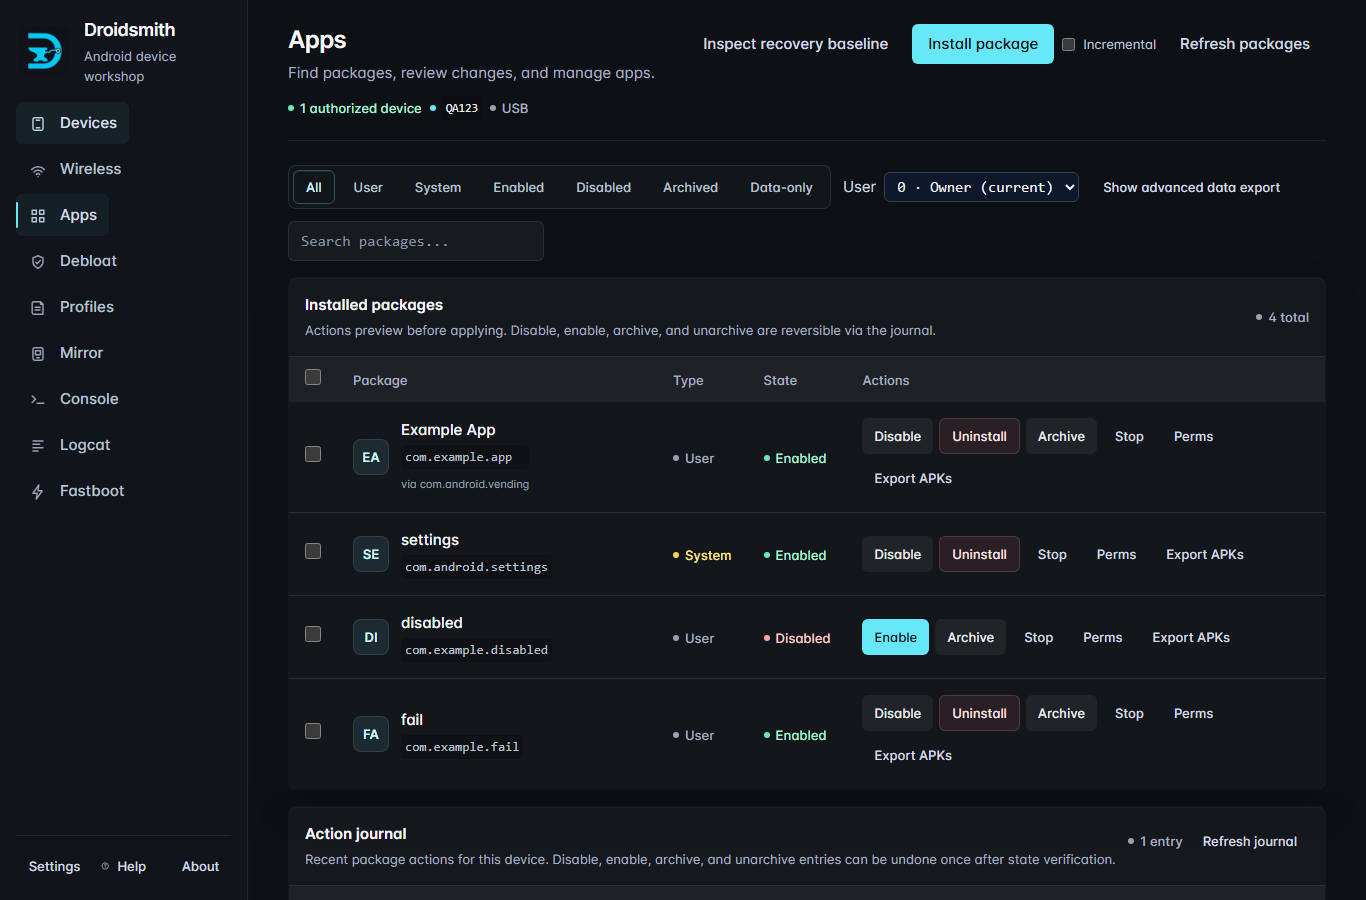
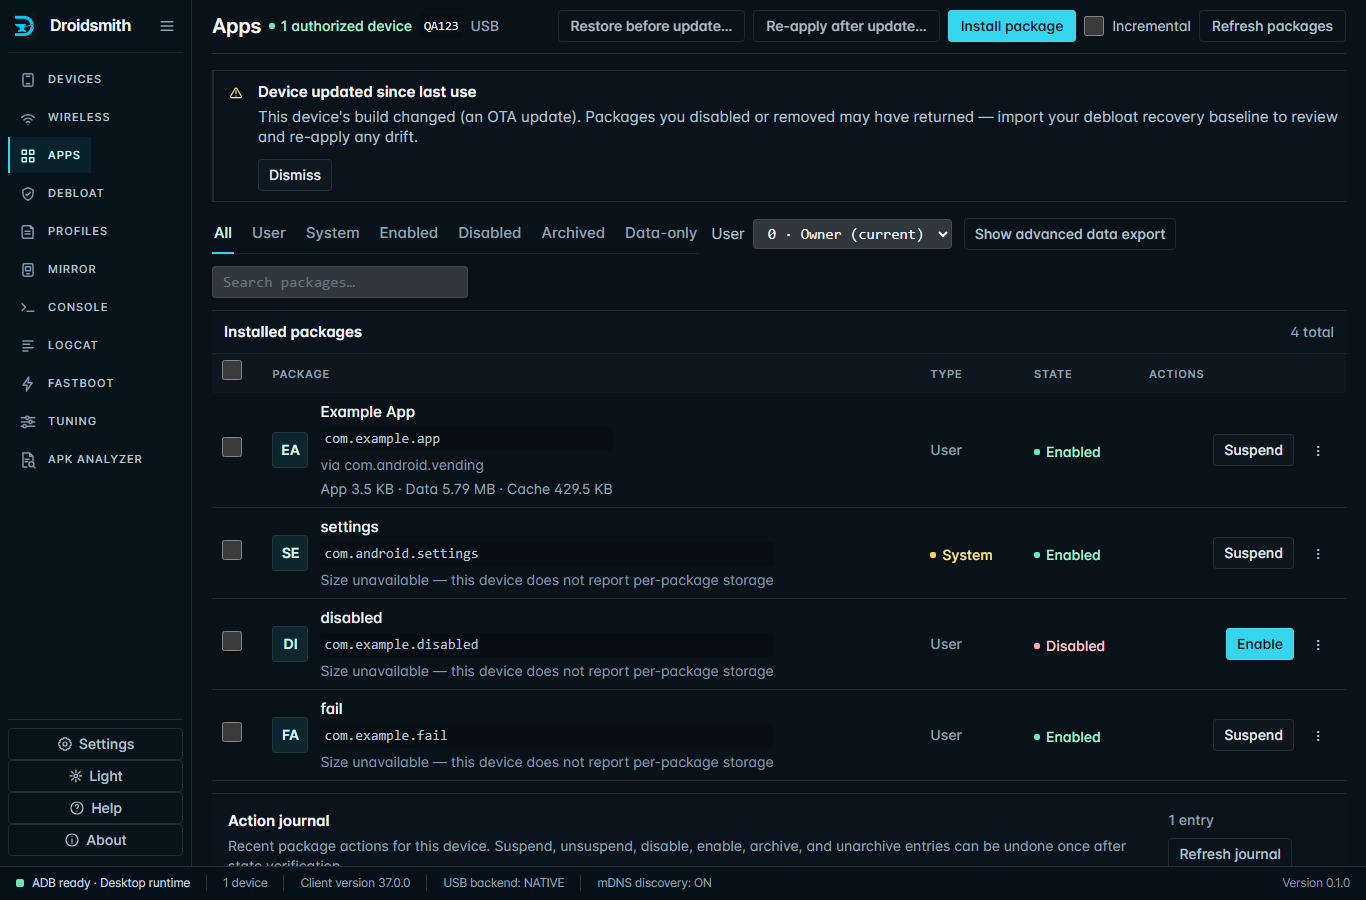
docs: align README contract and screenshots

diff --git a/ROADMAP.md b/ROADMAP.md
@@ -35,13 +35,6 @@ and Android, privacy-safe diagnostics, and the widest remaining product gap
   Acceptance: every component carries `licenses` sourced offline from `cargo metadata` and `package-lock.json`, with an explicit unknown marker where upstream declares none; the document carries `serialNumber`, `metadata.timestamp` and `metadata.tools`; a test fails if any component lacks a licence entry; the timestamp is derived from a reproducible input, not wall-clock, so `provenance:check` stays deterministic.
   Complexity: M
 
-- [ ] IMP-117 P1 — Close the README contract drift and regenerate the screenshots
-  Why: the README states a schema version the code does not accept, and its three screenshots predate a full visual-system replacement — both are user-facing claims no gate covers.
-  Evidence: `README.md:168` says profiles accept schema `"2"` while `src-tauri/src/profile.rs:16` is `"3"` and `README.md:199` says `"3"`; `scripts/check-release-policy.mjs:686` validates only the Platform-Tools sentence; `docs/screenshots/*.png` last regenerated 2026-07-17 (`git log`), before the 2026-08-02 v0.9.17 redesign; `npm run docs:screenshots` already exists.
-  Touches: `README.md`, `scripts/check-release-policy.mjs`, `docs/screenshots/`
-  Acceptance: the README profile-schema sentence is derived from `PROFILE_SCHEMA_VERSION` the same way the Platform-Tools line is derived from its policy, and the gate fails when they diverge; the three README screenshots are recaptured from the current visual system.
-  Complexity: S
-
 - [ ] R-137 P1 — Let a debloat pack choose its action
   Why: every pack entry is planned as `Disable`, so the reversible `suspend` rung shipped in v0.9.15 — the safest action the app has — is unreachable from the flagship content format, and so are uninstall-for-user and archive.
   Evidence: `src-tauri/src/commands/packs.rs:578` hardcodes `kind: actions::ActionKind::Disable`; `packs/schema.json` `PackEntry` carries a `removal` **risk tier** (Recommended/Advanced/Expert/Unsafe) but no action; UAD-NG issue #345 is the same request.

diff --git a/README.md b/README.md
@@ -166,7 +166,7 @@ ADB front end, but it has hard limits that an open project can fix:
 Bundled platform-tools and bundled scrcpy are not wired into the installer yet;
 install those tools on the host when their workflows are needed.
 The current extension surface is schema-only: this build accepts schema version
-`"1"` for packs and quirks and version `"2"` for profiles. Profile v1 has an
+`"1"` for packs and quirks and version `"3"` for profiles. Profile v1 has an
 explicit review-and-migrate path; future revisions are rejected with migration
 guidance. The plugin API and marketplace remain deferred.
 

diff --git a/CHANGELOG.md b/CHANGELOG.md
@@ -49,6 +49,10 @@ each milestone tag.
 - **The Rust MSRV rationale matches the actual toolchain contract.** The
   1.90 floor is documented as an intentional native-toolchain requirement and
   remains pinned by `rust-toolchain.toml`. (IMP-123)
+- **README schema copy and screenshots match the current build.** The profile
+  contract now states schema 3, the release gate checks that prose against the
+  contribution schema policy, and all three README screenshots were refreshed
+  through the mocked route capture. (IMP-117)
 
 ## [0.9.17] - 2026-08-02
 
